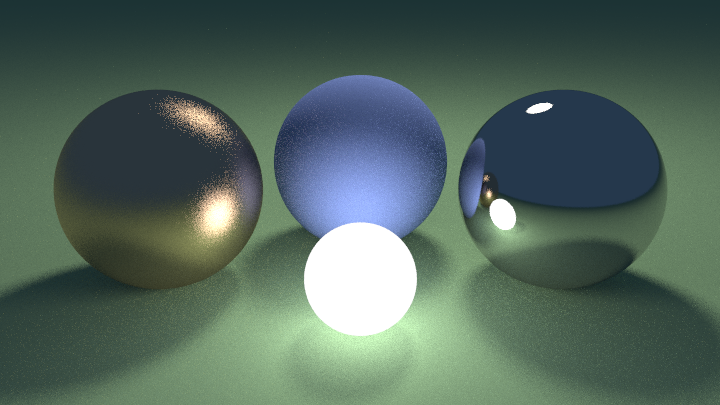
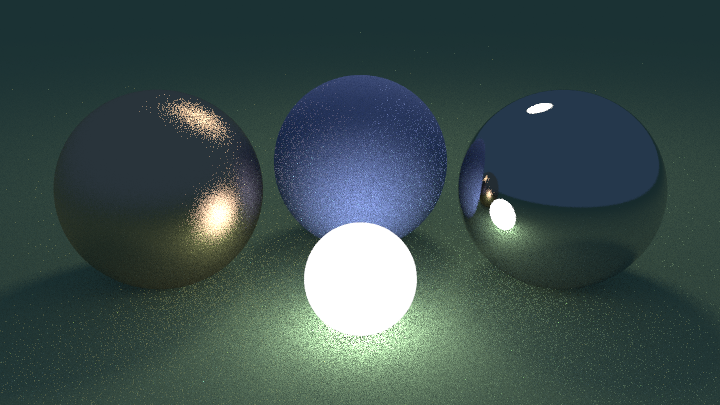
next event estimation : attempt 2
abandoning solid angle sampling, now simply uniformly sampling the light's visible area

diff --git a/src/intersectable.cpp b/src/intersectable.cpp
@@ -29,7 +29,7 @@ Color Plane::computeDirectDiffuse(const Point3&, const Point3&) const {
     return Color::BLACK;
 }
 
-Point3 Plane::sampleSolidAngle(const Point3&) const {
+Point3 Plane::sampleVisibleSurface(const Point3&) const {
     assert(false && "Not implemented yet");
     return Point3(0.0f, 0.0f, 0.0f);
 }
@@ -62,27 +62,25 @@ std::optional<Intersection> Sphere::intersect(const Ray& ray) const {
 }
 
 Color Sphere::computeDirectDiffuse(const Point3& location, const Point3& sampledPoint) const {
-    float cosThetaMax = (sampledPoint - location).length() / (center - location).length();
-    // Solid angle of the cone from location to the sphere
-    float normalization = 1.0f - cosThetaMax;
-    return material.emission * material.color * normalization;
+    Vector3 pointToLocation = location - sampledPoint;
+    Vector3 normal = (sampledPoint - center).normalized();
+    float cosThetaMax = radius / (center - location).length();
+
+    float pdf = 1.0f / (Utils::TWO_PI * (1.0f - cosThetaMax) * Utils::sqr(radius));
+    return normal.dot(pointToLocation.normalized()) * material.emission * material.color /
+           (pdf * pointToLocation.lengthSquared());
 }
 
-Point3 Sphere::sampleSolidAngle(const Point3& location) const {
-    float d = (center - location).length();
-    float sinThetaMax = radius / d;
+Point3 Sphere::sampleVisibleSurface(const Point3& viewer) const {
+    float dToCenter = (center - viewer).length();
+    float cosThetaMax = radius / dToCenter;
+
     float phi = Utils::TWO_PI * Utils::random();
-    float cosThetaMax = std::sqrt(1 - Utils::sqr(sinThetaMax));
-
-    // Sampling theta : not just random() * sinThetaMax like I thought before !
+    // Uniform sampling of the visible portion of the hemisphere, delimited by angle thetaMax
     float theta = std::acos(1 - Utils::random() * (1 - cosThetaMax));
-    Vector3 directionToSample =
-        Utils::sphericalCoordsRotation((center - location).normalized(), theta, phi);
 
-    // Using Al-Kashi's theorem, and clamping x's value beforehand to avoid floating point
-    // errors resulting in the square root returning NaN
-    float x = Utils::sqr(radius) - Utils::sqr(std::sin(theta) * d);
-    float distToSample = d * std::cos(theta) - std::sqrt(std::max(0.0f, x));
+    Vector3 sampledDirection =
+        Utils::sphericalCoordsRotation((viewer - center).normalized(), theta, phi);
 
-    return location + distToSample * directionToSample;
+    return center + radius * sampledDirection;
 }

diff --git a/src/scene.cpp b/src/scene.cpp
@@ -50,23 +50,24 @@ std::optional<Intersection> Scene::findFirstIntersection(const Ray& ray) const {
 
 Color Scene::computeDirectDiffuseLighting(const Intersection& intersection) const {
     Color intersectionColor{0.0f};
+    const Material& material = intersection.material.get();
 
     // Metals have no diffuse component.
-    if (intersection.material.get().metal) {
+    if (material.metal) {
         return intersectionColor;
     }
 
     for (const auto& light : lights) {
-        Point3 sampledPoint = light->sampleSolidAngle(intersection.location);
-        Vector3 fromLight = (intersection.location - sampledPoint).normalized();
-        float lightDotN = -fromLight.dot(intersection.normal);
+        Point3 sampledPoint = light->sampleVisibleSurface(intersection.location);
+        Vector3 toLight = (sampledPoint - intersection.location).normalized();
+        float lightDotN = toLight.dot(intersection.normal);
 
         if (lightDotN <= 0.0f) {
             continue;
         }
 
         // Checking for occlusion between the intersection and light
-        Ray rayTowardsLight{intersection.location, -fromLight};
+        Ray rayTowardsLight{intersection.location, toLight};
         rayTowardsLight.maxDist = (sampledPoint - intersection.location).length() -
                                   Ray::MIN_RAY_DIST; // preventing auto-occlusion
 
@@ -74,8 +75,9 @@ Color Scene::computeDirectDiffuseLighting(const Intersection& intersection) cons
             continue;
         }
 
-        intersectionColor += lightDotN * intersection.material.get().color *
-                             light->computeDirectDiffuse(intersection.location, sampledPoint);
+        intersectionColor += lightDotN * material.color *
+                             light->computeDirectDiffuse(intersection.location, sampledPoint) /
+                             Utils::PI;
     }
     return intersectionColor;
 }

diff --git a/src/intersectable.hpp b/src/intersectable.hpp
@@ -19,7 +19,7 @@ class Intersectable {
     virtual std::optional<Intersection> intersect(const Ray& ray) const = 0;
     virtual Color computeDirectDiffuse(const Point3& location,
                                        const Point3& sampledPoint) const = 0;
-    virtual Point3 sampleSolidAngle(const Point3& location) const = 0;
+    virtual Point3 sampleVisibleSurface(const Point3& viewer) const = 0;
 };
 
 class Plane : public Intersectable {
@@ -32,8 +32,8 @@ class Plane : public Intersectable {
         : Intersectable(material), position(position), normal(normal) {}
 
     std::optional<Intersection> intersect(const Ray& ray) const override;
-    Color computeDirectDiffuse(const Point3& observer, const Point3& sampledPoint) const override;
-    Point3 sampleSolidAngle(const Point3& observer) const override;
+    Color computeDirectDiffuse(const Point3& location, const Point3& sampledPoint) const override;
+    Point3 sampleVisibleSurface(const Point3& viewer) const override;
 };
 
 class Sphere : public Intersectable {
@@ -46,8 +46,8 @@ class Sphere : public Intersectable {
         : Intersectable(material), center(center), radius(radius) {}
 
     std::optional<Intersection> intersect(const Ray& ray) const override;
-    Color computeDirectDiffuse(const Point3& observer, const Point3& sampledPoint) const override;
-    Point3 sampleSolidAngle(const Point3& observer) const override;
+    Color computeDirectDiffuse(const Point3& location, const Point3& sampledPoint) const override;
+    Point3 sampleVisibleSurface(const Point3& viewer) const override;
 };
 
 #endif

diff --git a/src/test.cpp b/src/test.cpp
@@ -7,7 +7,7 @@
 int main() {
     Sphere s = Sphere(Point3(0.0f, 0.0f, 0.0f), 1.0f, Material::Diffuse(Color::WHITE));
     for (int i = 0; i < 10; ++i) {
-        auto p = s.sampleSolidAngle(Point3(2.0f, 0.0f, 0.0f));
+        auto p = s.sampleVisibleSurface(Point3(2.0f, 0.0f, 0.0f));
         std::cout << "nice";
     }
 }

diff --git a/src/main.cpp b/src/main.cpp
@@ -46,7 +46,7 @@ int main() {
                                  Material::Emissive(Color::WHITE, 3.0f)),
     };
 
-    RenderParams params{720, 405, 2, 40, true};
+    RenderParams params{720, 405, 2, 20, true};
 
     Scene scene{shapes, lights, params, Color(0.02f, 0.05f, 0.1f)};
 
